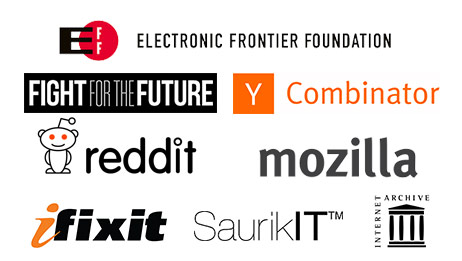
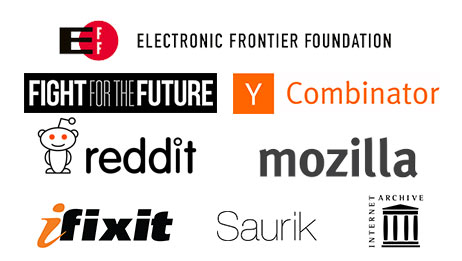
small changes // ™ removed from saurik

Changed region(s): [[0.0606, 0.7663, 0.4242, 0.9502], [0.4242, 0.7969, 0.7576, 0.9195], [0.7879, 0.7356, 0.9394, 0.9502]]

diff --git a/preview/index.html b/preview/index.html
@@ -136,7 +136,7 @@
 <div id="blue">
 	<div class="container">
 		<h1>We're asking Congress to fight for consumer rights and <strong>fix the DMCA</strong>. We need your help.</h1>
-		<p>Repealing section 1201  would make the following clearly and permanently legal:</p>
+		<p>Repealing section 1201  would make the following <strong>clearly and permanently legal:</strong></p>
 			<ul class="pink-list">
 				<li>Unlocking cell phones</li>
 				<li>Jailbreaking phones, tablets, and game consoles</li>
